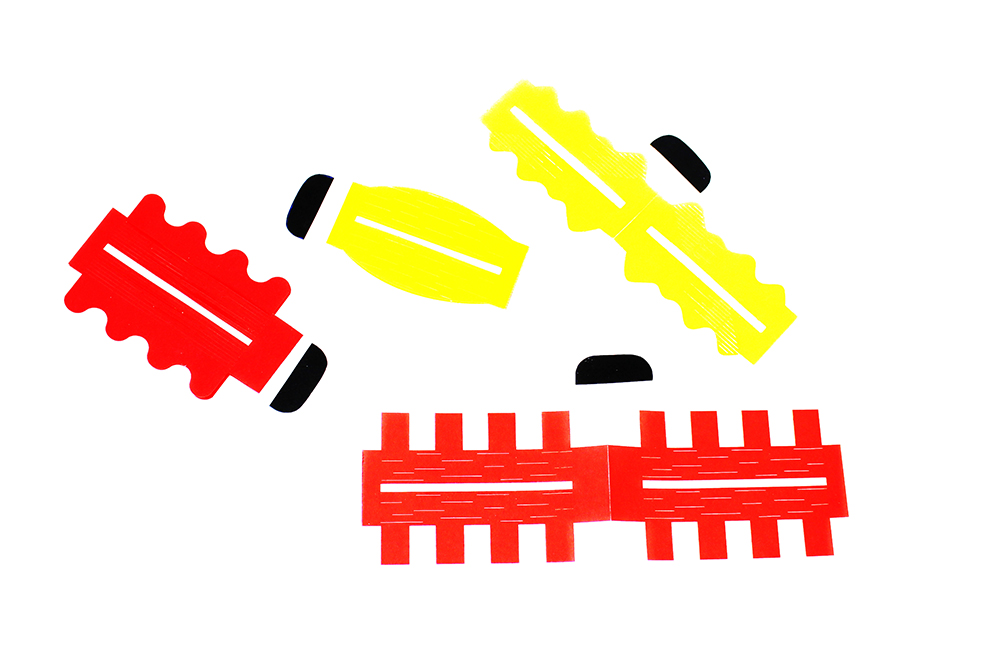
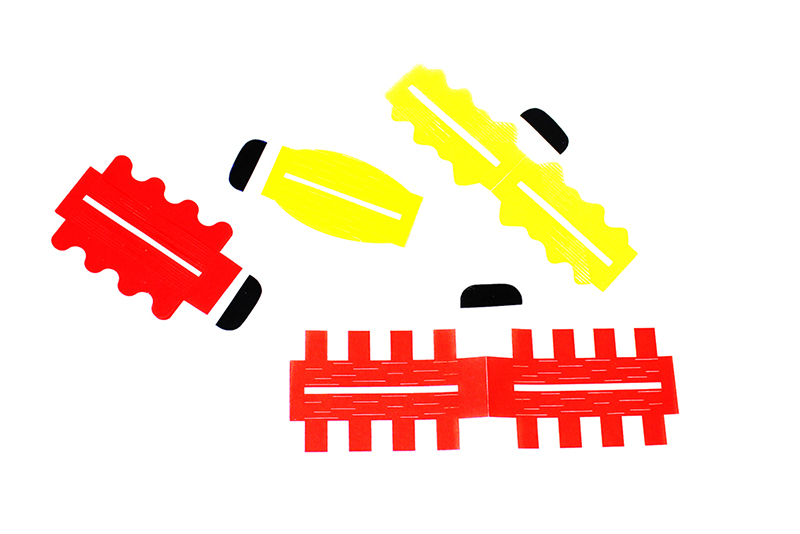
OKOK

Changed region(s): [[0.7188, 0.4794, 0.75, 0.5393], [0.6875, 0.2996, 0.7188, 0.3296]]

diff --git a/src/lignes.html b/src/lignes.html
@@ -99,7 +99,7 @@
                   class="slider__img"
                   src="assets/images/pages-projet/lignes/lignes1.JPG"
                   srcset="
-                    assets/images/pages-projet/lignes/retina/lignes1@2x.jpg
+                    assets/images/pages-projet/lignes/retina/lignes1@2x.JPG
                   "
                   alt="photographie des quatres objets marque-pages rouges et jaune en top shot sur fond blanc."
                 />
